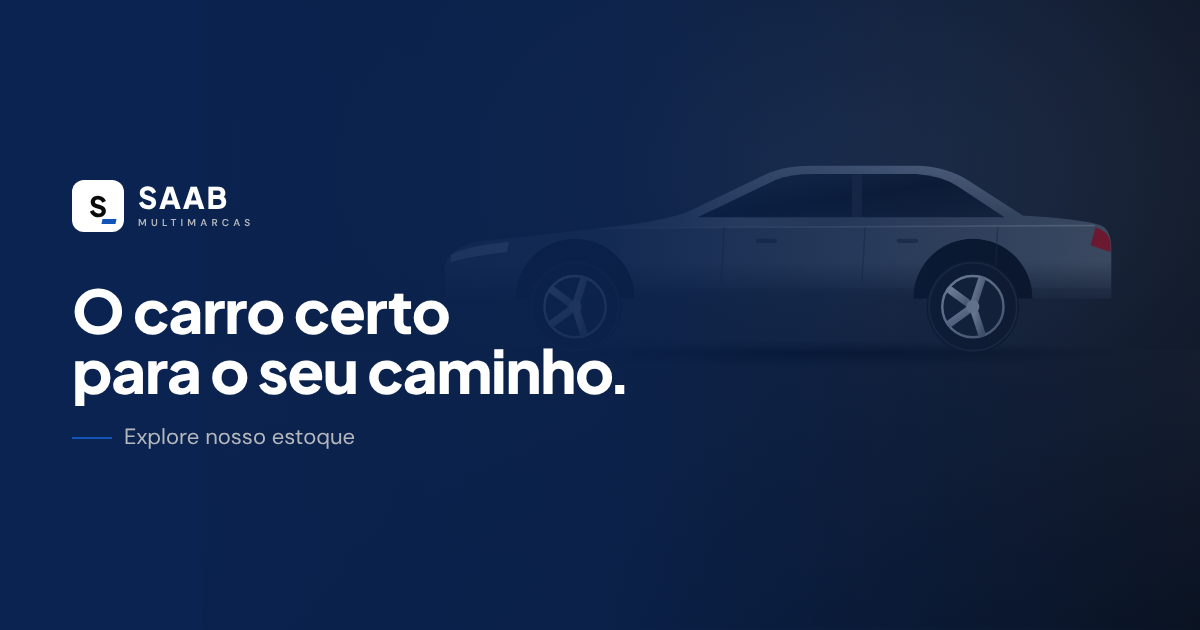
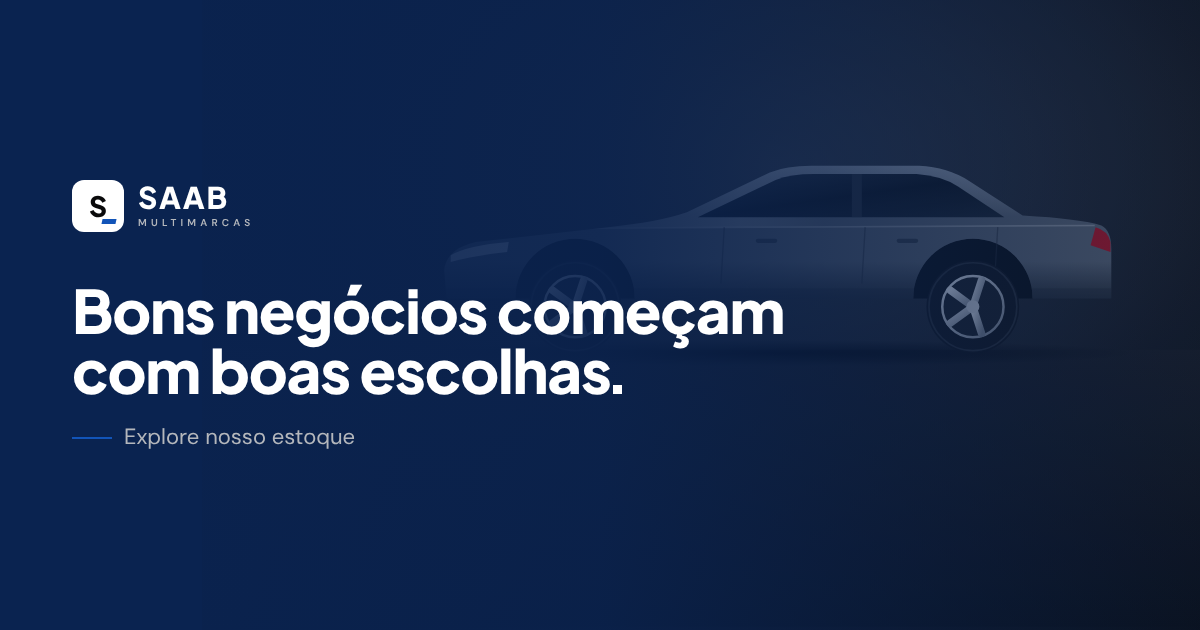
Ajustes V8: headline definitiva e fachada em Venha conhecer a SAAB
- Headline: Bons negócios começam com boas escolhas. (sem subheadline)
- Fachada real ao lado do conteúdo em Venha conhecer a SAAB
- Remove a seção com o título Revenda multimarcas em Presidente Prudente
- BrandPanel extraído para componente próprio
- Imagem de compartilhamento atualizada

Claude-Session: https://claude.ai/code/session_01J3nbq512XdogLgkxPKWMnU

Changed region(s): [[0.0617, 0.4524, 0.6783, 0.6333]]

diff --git a/src/components/home/LocationContact.tsx b/src/components/home/LocationContact.tsx
@@ -1,10 +1,11 @@
-import { Clock, MapPin, MapPinned, Navigation, Phone } from 'lucide-react'
+import { ArrowRight, Clock, MapPin, MapPinned, Navigation, Phone } from 'lucide-react'
 import { env } from '@/config/env'
 import { formatAddress, mapsLinks, siteConfig } from '@/config/site'
 import { trackEvent } from '@/lib/analytics'
 import { buildWhatsAppUrl, generalMessage } from '@/lib/whatsapp'
 import { InstagramIcon, WhatsAppIcon } from '@/components/ui/BrandIcons'
-import { ButtonAnchor } from '@/components/ui/Button'
+import { ButtonAnchor, ButtonLink } from '@/components/ui/Button'
+import { BrandPanel } from './BrandPanel'
 import { content } from '@/config/content'
 import { SectionHeading } from '@/components/ui/SectionHeading'
 
@@ -176,12 +177,62 @@ export function LocationBlock({ trackingLocation }: { trackingLocation: string }
   )
 }
 
+/**
+ * Home — "Venha conhecer a SAAB": conteúdo (endereço e ações) ao lado da foto
+ * real da fachada. Sem foto cadastrada, exibe o painel com a marca.
+ */
 export function LocationContact() {
+  const { address } = siteConfig
+  const { title, aboutCta, facade } = content.location
   return (
-    <section aria-labelledby="location-title" className="bg-ink-50 py-20 lg:py-28">
-      <div className="container-site">
-        <SectionHeading id="location-title" title={content.location.title} className="mb-12" />
-        <LocationBlock trackingLocation="home_location" />
+    <section aria-labelledby="location-title" className="bg-white py-20 lg:py-28">
+      <div className="container-site grid items-center gap-10 lg:grid-cols-[minmax(0,0.85fr)_minmax(0,1.15fr)] lg:gap-16">
+        <div className="flex flex-col items-center text-center">
+          <SectionHeading id="location-title" title={title} />
+          {address.confirmed && (
+            <address className="mt-6 flex flex-col items-center not-italic">
+              <span className="grid size-11 place-items-center rounded-xl bg-accent-soft text-accent">
+                <MapPin size={20} aria-hidden="true" />
+              </span>
+              <span className="mt-3 text-lg font-semibold text-ink-950">{address.street}</span>
+              <span className="mt-0.5 text-ink-500">{[address.district, siteConfig.city, siteConfig.state].filter(Boolean).join(' — ')}</span>
+            </address>
+          )}
+          <div className="mt-7 flex flex-wrap justify-center gap-3">
+            {address.confirmed && (
+              <ButtonAnchor
+                href={mapsLinks.route}
+                target="_blank"
+                rel="noopener noreferrer"
+                variant="primary"
+                size="lg"
+                onClick={() => trackEvent({ name: 'contact_click', params: { channel: 'maps', location: 'home_location' } })}
+              >
+                <Navigation size={17} aria-hidden="true" /> Como chegar
+              </ButtonAnchor>
+            )}
+            <ButtonLink to="/sobre" variant="outline" size="lg">
+              {aboutCta} <ArrowRight size={17} aria-hidden="true" />
+            </ButtonLink>
+          </div>
+        </div>
+
+        {facade ? (
+          // Proporção original preservada (sem recorte): fachada e logotipo inteiros
+          <img
+            src={facade.src}
+            srcSet={facade.srcSet}
+            sizes="(min-width: 1280px) 700px, (min-width: 1024px) 55vw, 100vw"
+            width={facade.width}
+            height={facade.height}
+            alt={facade.alt}
+            loading="lazy"
+            decoding="async"
+            className="h-auto w-full rounded-[var(--radius-card)] shadow-[var(--shadow-card-hover)] ring-1 ring-ink-100"
+          />
+        ) : (
+          <BrandPanel className="aspect-[4/3]" />
+        )}
       </div>
     </section>
   )

diff --git a/src/config/content.ts b/src/config/content.ts
@@ -13,8 +13,7 @@ import { HERO_PHOTO } from '../data/stock-photos'
 export const content = {
   hero: {
     /** Cada item vira uma linha da headline */
-    headline: ['O carro certo', 'para o seu caminho.'],
-    subheadline: 'Explore nosso estoque e encontre um veículo que combina com você.',
+    headline: ['Bons negócios começam', 'com boas escolhas.'],
     primaryCta: 'Explorar estoque',
     /**
      * Foto do banner. Substitua por uma foto oficial (ex.: { url: '/media/hero.jpg' }),
@@ -63,24 +62,6 @@ export const content = {
     },
   },
 
-  about: {
-    provisional: true,
-    title: 'Revenda multimarcas em Presidente Prudente',
-    cta: 'Conheça a SAAB',
-    /**
-     * Foto real da fachada (fornecida pela SAAB). Proporção original 4:3 preservada.
-     * Para trocar: substitua os arquivos em public/media/ e ajuste width/height.
-     * `null` = exibe o painel com a marca.
-     */
-    image: {
-      src: '/media/fachada-saab-1448.webp',
-      srcSet: '/media/fachada-saab-800.webp 800w, /media/fachada-saab-1448.webp 1448w',
-      width: 1448,
-      height: 1086,
-      alt: 'Fachada da SAAB Multimarcas, com o letreiro "Compra, Venda, Troca, Financia", na Avenida Joaquim Constantino, em Presidente Prudente',
-    } as { src: string; srcSet: string; width: number; height: number; alt: string } | null,
-  },
-
   aboutPage: {
     provisional: true,
     title: 'Sobre a SAAB Multimarcas',
@@ -93,6 +74,20 @@ export const content = {
 
   location: {
     title: 'Venha conhecer a SAAB',
+    /** Link para a página Sobre Nós */
+    aboutCta: 'Conheça a SAAB',
+    /**
+     * Foto real da fachada (fornecida pela SAAB). Proporção original 4:3 preservada.
+     * Para trocar: substitua os arquivos em public/media/ e ajuste width/height.
+     * `null` = exibe o painel com a marca.
+     */
+    facade: {
+      src: '/media/fachada-saab-1448.webp',
+      srcSet: '/media/fachada-saab-800.webp 800w, /media/fachada-saab-1448.webp 1448w',
+      width: 1448,
+      height: 1086,
+      alt: 'Fachada da SAAB Multimarcas, com o letreiro "Compra, Venda, Troca, Financia", na Avenida Joaquim Constantino, em Presidente Prudente',
+    } as { src: string; srcSet: string; width: number; height: number; alt: string } | null,
   },
 
   sellTrade: {

diff --git a/src/components/home/Hero.tsx b/src/components/home/Hero.tsx
@@ -29,7 +29,7 @@ export function Hero() {
           <div className="flex max-w-4xl animate-fade-up flex-col items-center">
             <h1
               id="hero-title"
-              className="font-display text-[clamp(1.85rem,8.4vw,5rem)] leading-[1.06] font-extrabold text-white [text-shadow:0_2px_24px_rgba(0,0,0,.35)]"
+              className="font-display text-[clamp(1.375rem,7.15vw,4.6rem)] leading-[1.08] font-extrabold text-white [text-shadow:0_2px_24px_rgba(0,0,0,.35)]"
             >
               {hero.headline.map((line) => (
                 <span key={line} className="block whitespace-nowrap">
@@ -45,8 +45,7 @@ export function Hero() {
                 </span>
               ))}
             </h1>
-            <p className="mt-6 max-w-md text-base leading-relaxed text-balance text-white/85 sm:max-w-xl sm:text-lg">{hero.subheadline}</p>
-            <ButtonLink to="/estoque" size="lg" variant="primary" className="mt-9 px-9">
+            <ButtonLink to="/estoque" size="lg" variant="primary" className="mt-10 px-9 lg:mt-12">
               {hero.primaryCta}
               <ArrowRight size={18} className="transition-transform group-hover/btn:translate-x-0.5" aria-hidden="true" />
             </ButtonLink>

diff --git a/src/components/home/BrandPanel.tsx b/src/components/home/BrandPanel.tsx
@@ -1,0 +1,22 @@
+import { siteConfig } from '@/config/site'
+import { Logo } from '@/components/layout/Logo'
+
+/** Painel de marca exibido enquanto não houver fotos oficiais da loja/equipe. */
+export function BrandPanel({ className = '' }: { className?: string }) {
+  return (
+    <div className={`relative isolate grid place-items-center overflow-hidden rounded-[var(--radius-card)] bg-brand-deep ${className}`}>
+      <div className="absolute -top-1/3 -right-1/4 -z-10 size-[70%] rounded-full bg-brand/60 blur-3xl" aria-hidden="true" />
+      <div className="absolute -bottom-1/3 -left-1/4 -z-10 size-[60%] rounded-full bg-brand-night blur-3xl" aria-hidden="true" />
+      <div
+        className="absolute inset-0 -z-10 opacity-[0.07] [background-image:linear-gradient(rgba(255,255,255,1)_1px,transparent_1px),linear-gradient(90deg,rgba(255,255,255,1)_1px,transparent_1px)] [background-size:44px_44px]"
+        aria-hidden="true"
+      />
+      <div className="flex flex-col items-center gap-4 px-8 text-center">
+        <Logo tone="light" className="scale-[1.35]" />
+        <p className="mt-4 text-sm text-white/70">
+          {siteConfig.city} · {siteConfig.state}
+        </p>
+      </div>
+    </div>
+  )
+}

diff --git a/src/pages/HomePage.tsx b/src/pages/HomePage.tsx
@@ -1,7 +1,6 @@
 import { env } from '@/config/env'
 import { useSeo } from '@/lib/seo'
 import { STATIC_PAGES, dealerJsonLd } from '@/lib/seo-meta'
-import { AboutPreview } from '@/components/home/AboutPreview'
 import { FeaturedVehicles } from '@/components/home/FeaturedVehicles'
 import { Hero } from '@/components/home/Hero'
 import { LocationContact } from '@/components/home/LocationContact'
@@ -15,7 +14,6 @@ export default function HomePage() {
       <Hero />
       <FeaturedVehicles />
       <Services />
-      <AboutPreview />
       <Testimonials />
       <LocationContact />
     </>

diff --git a/src/pages/AboutPage.tsx b/src/pages/AboutPage.tsx
@@ -1,7 +1,7 @@
 import { content } from '@/config/content'
 import { useSeo } from '@/lib/seo'
 import { STATIC_PAGES } from '@/lib/seo-meta'
-import { BrandPanel } from '@/components/home/AboutPreview'
+import { BrandPanel } from '@/components/home/BrandPanel'
 import { Differentials } from '@/components/home/Differentials'
 import { LocationBlock } from '@/components/home/LocationContact'
 import { PageHeader } from '@/components/ui/PageHeader'

diff --git a/README.md b/README.md
@@ -174,7 +174,7 @@ Itens provisórios — nada disso aparece como aviso na interface; blocos sem da
 | Logotipo oficial e tom exato de azul | `site.ts` (`logo`) e `index.css` (`--color-brand*`) | Logotipo tipográfico + `#1254B8` |
 | História e propósito | `content.aboutPage.history/purpose` | Blocos ocultos |
 | Diferenciais (página Sobre) | `content.differentials` | Textos genéricos a validar |
-| Foto da fachada | `public/media/fachada-saab-*.webp` (`content.about.image`) | **Recebida e aplicada** na seção "Conheça a SAAB" (V6) |
+| Foto da fachada | `public/media/fachada-saab-*.webp` (`content.about.image`) | **Recebida e aplicada** na seção "Venha conhecer a SAAB" da home (V8) |
 | Fotos da equipe/loja (galeria Sobre Nós) | `content.aboutPage.gallery` | Bloco oculto até receber |
 | Fotos do estoque real (substituem as de terceiros e dispensam atribuição) | Painel `/admin` | Fotos CC BY-SA com atribuição em `/informacoes-legais` |
 | Backend da ficha de financiamento | `VITE_FINANCING_ENDPOINT` | Somente interface; envio desativado |
